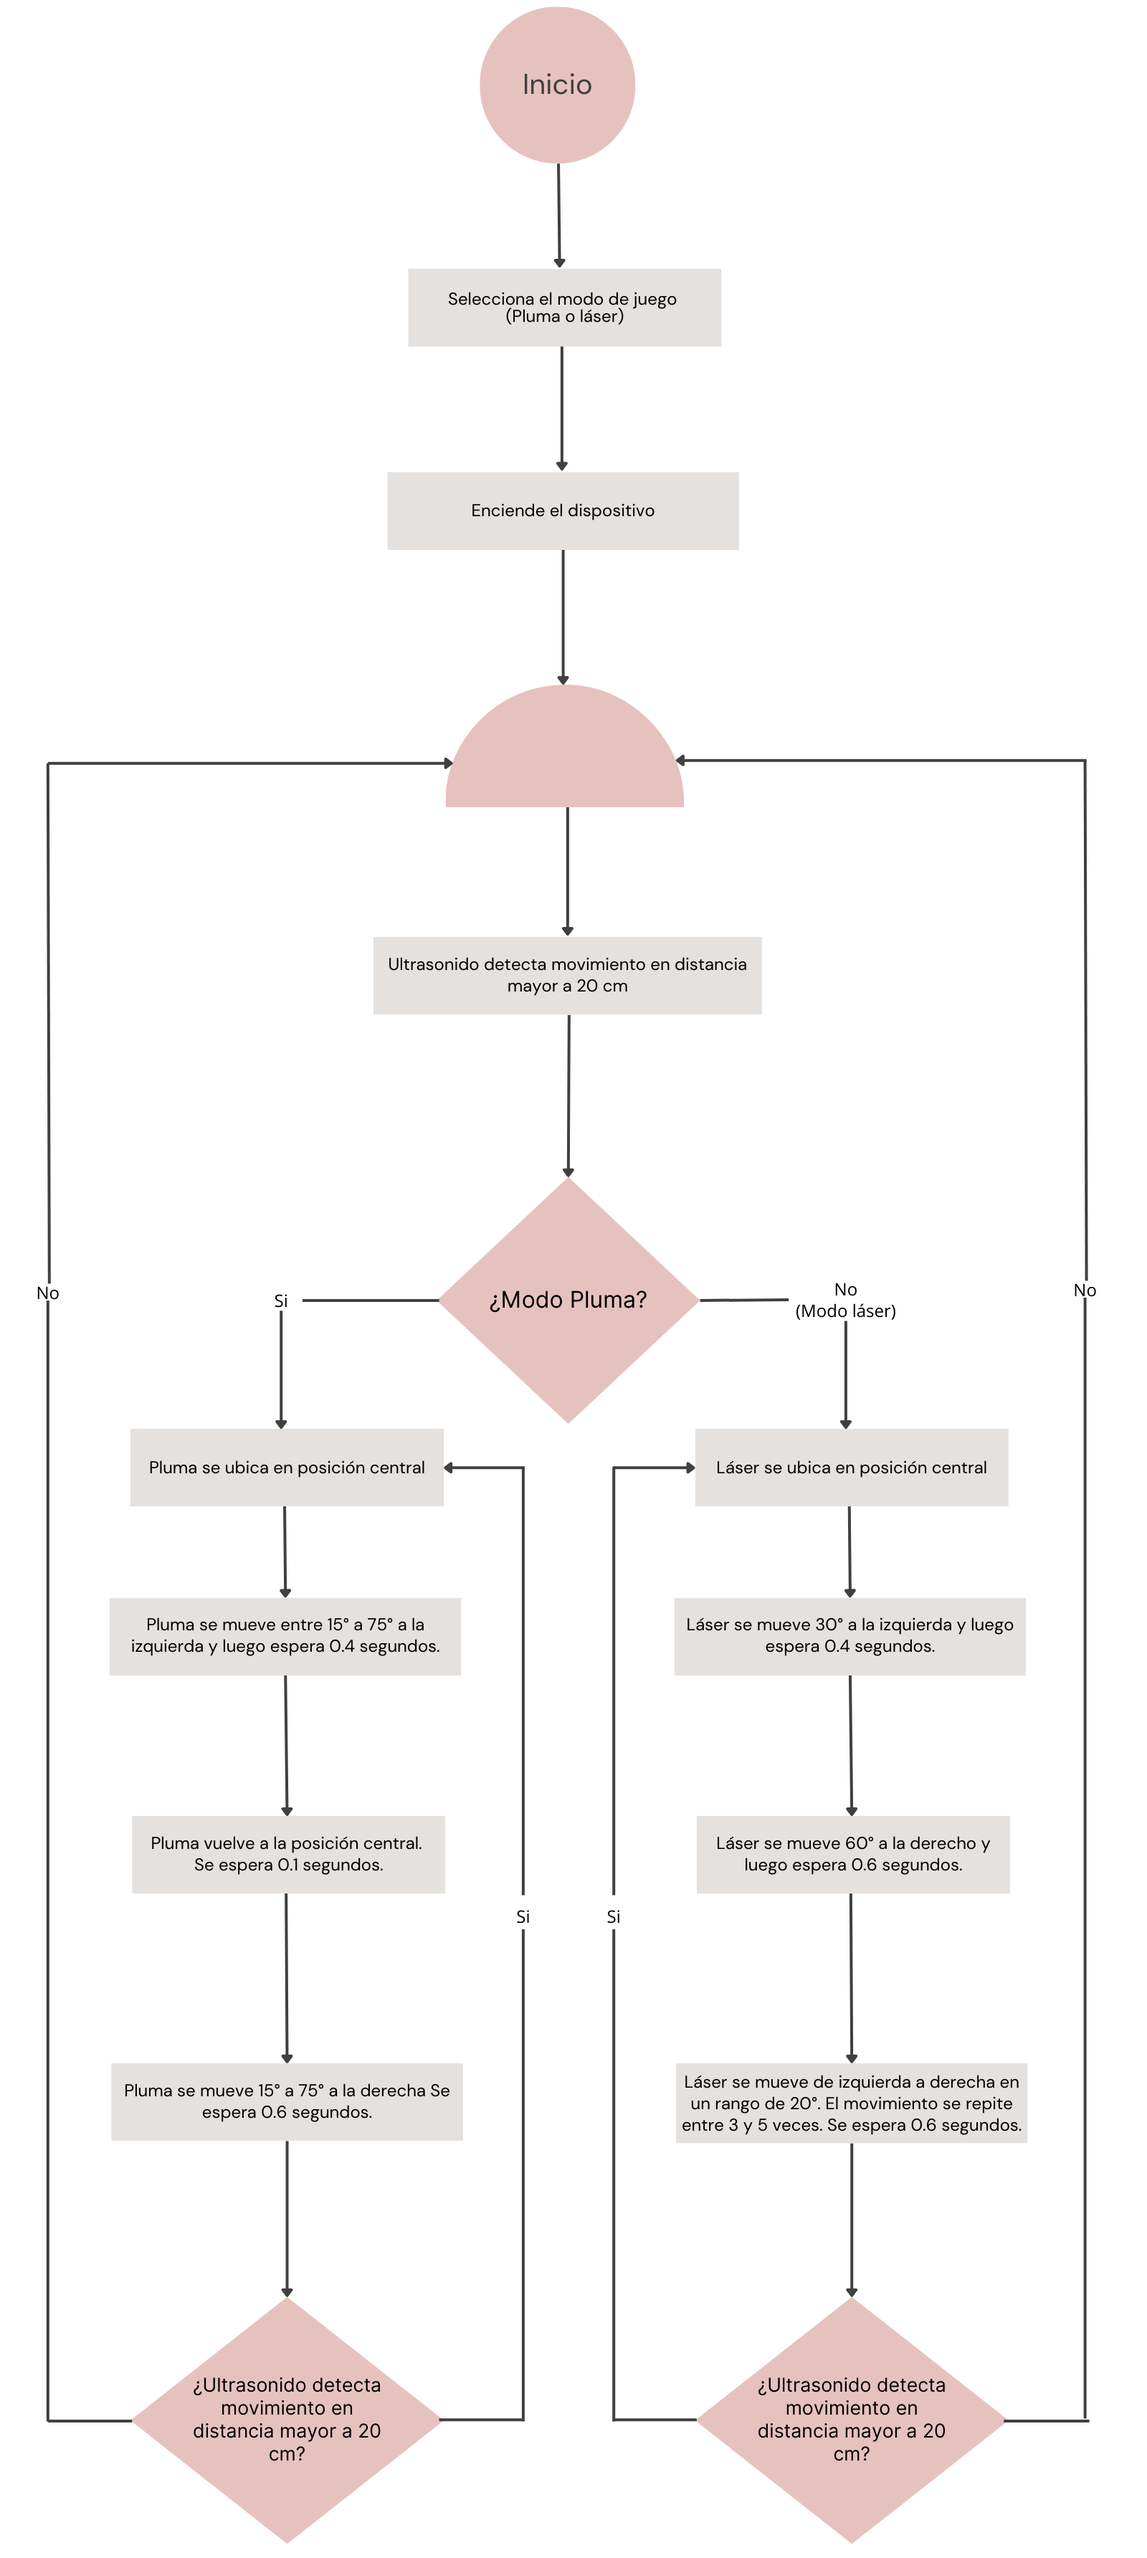
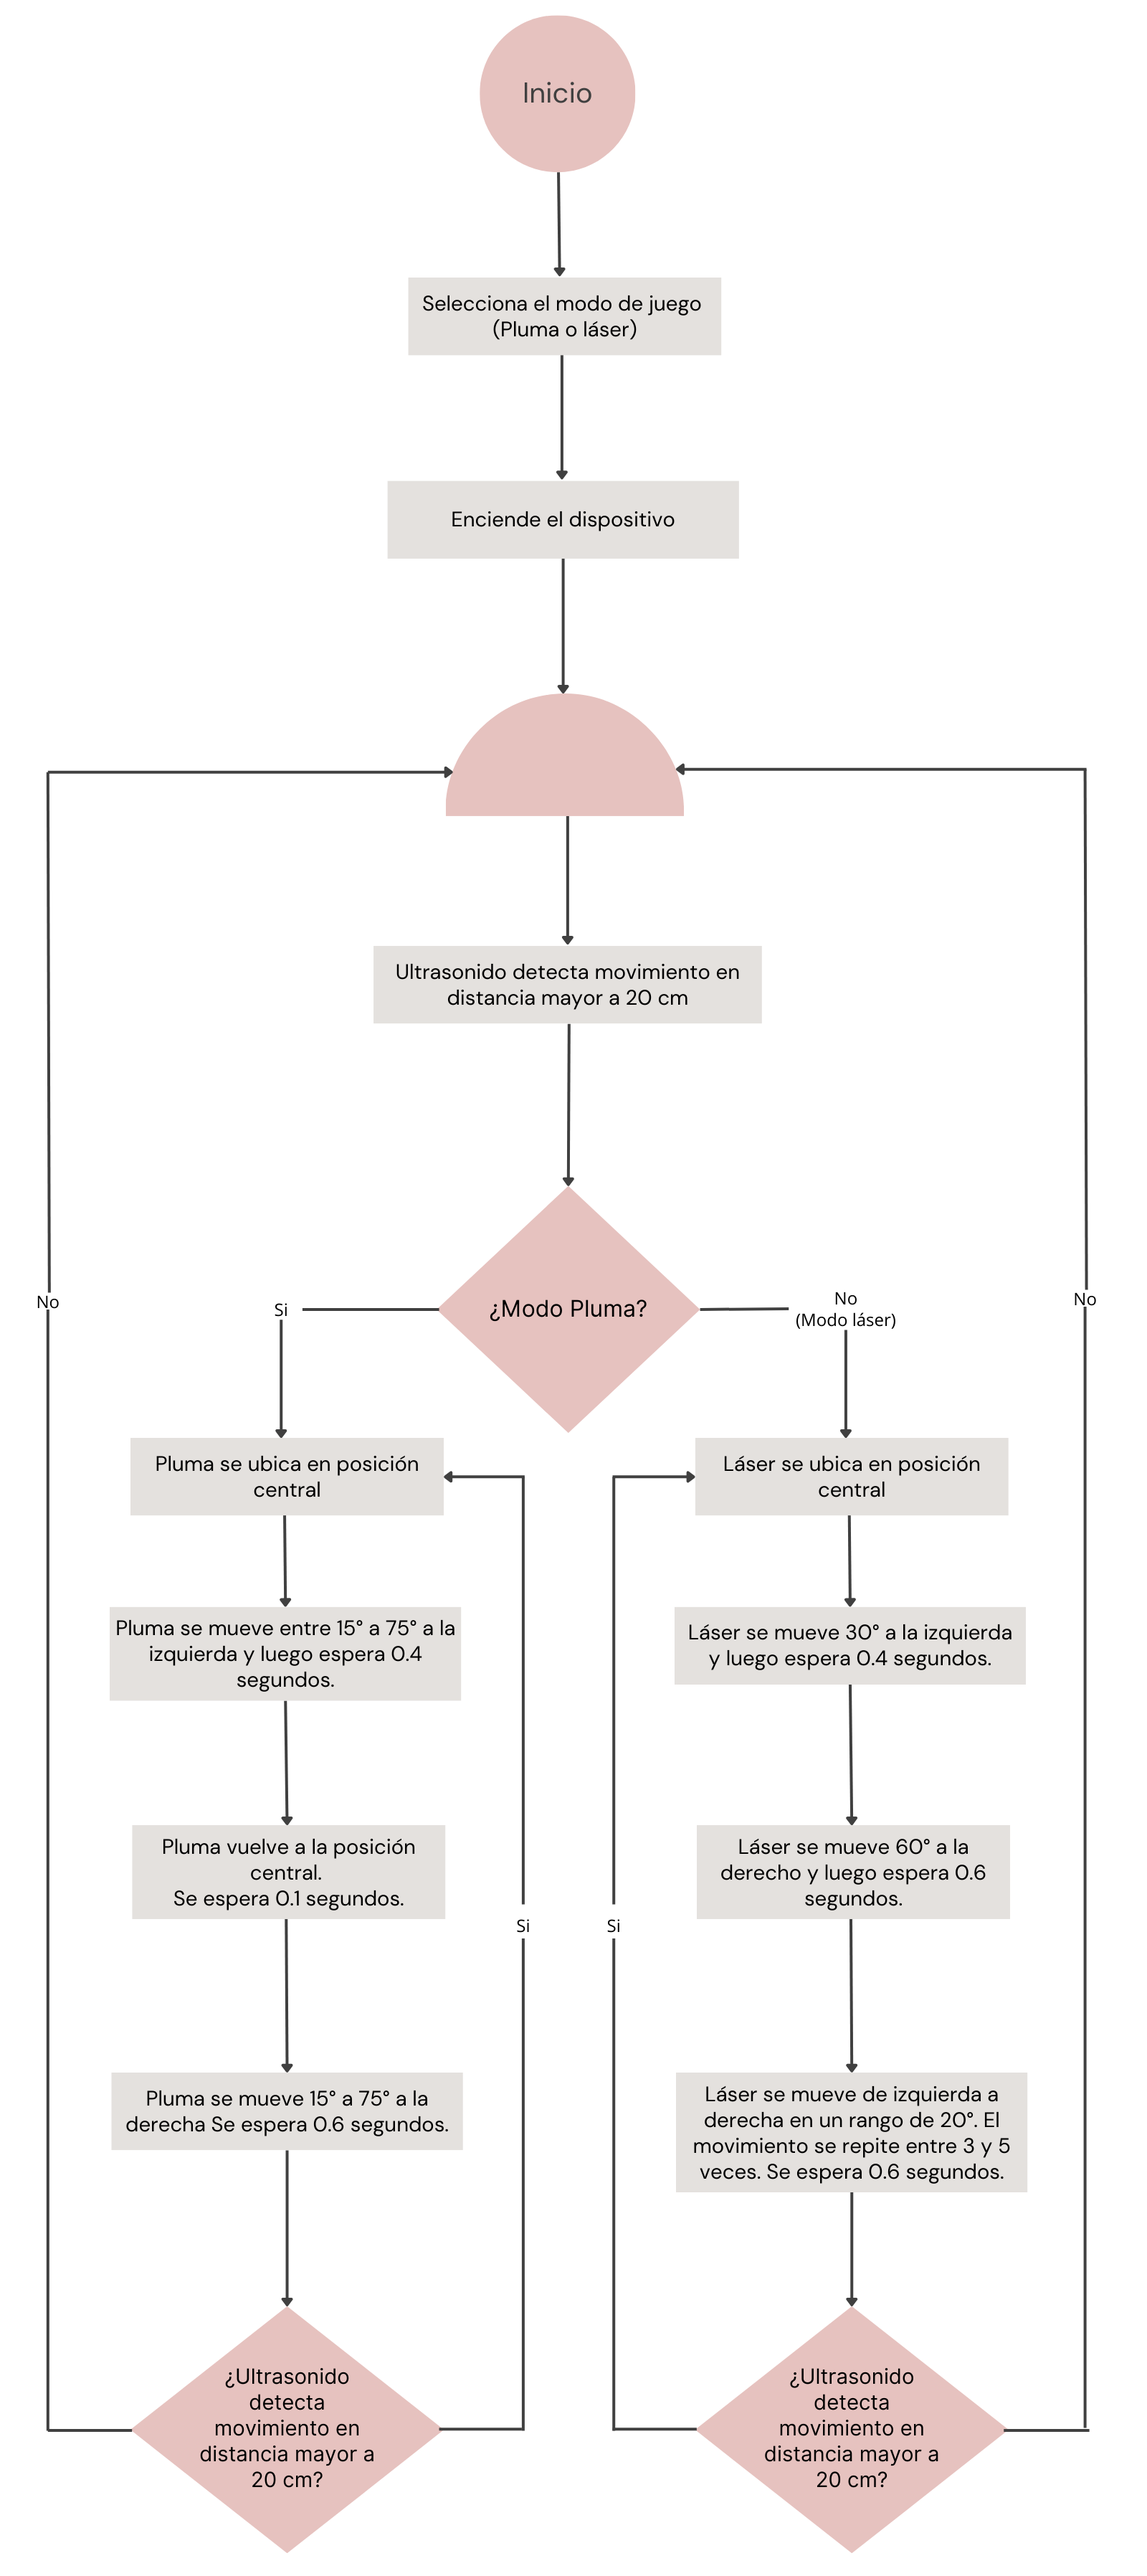
cambiar tamaño de tipos

diff --git a/assets/css/main.css b/assets/css/main.css
@@ -77,7 +77,7 @@ input, select, textarea {
 }
 
 .font24 {
-	font-size: 24px;
+	font-size: 20px;
 }
 
 /* Basic */
